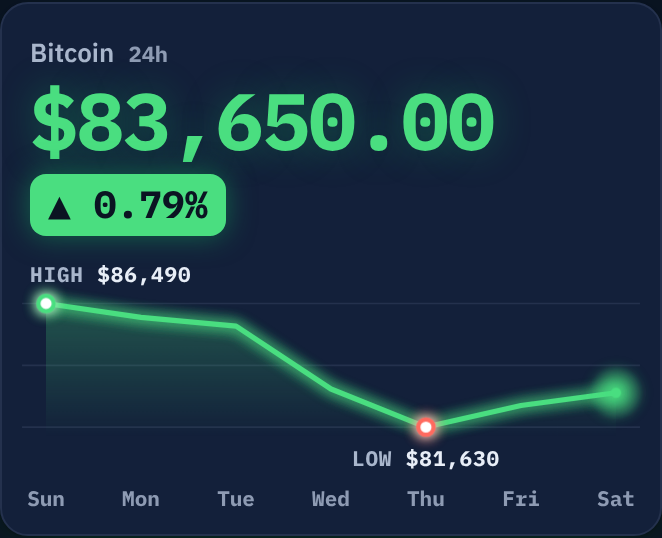
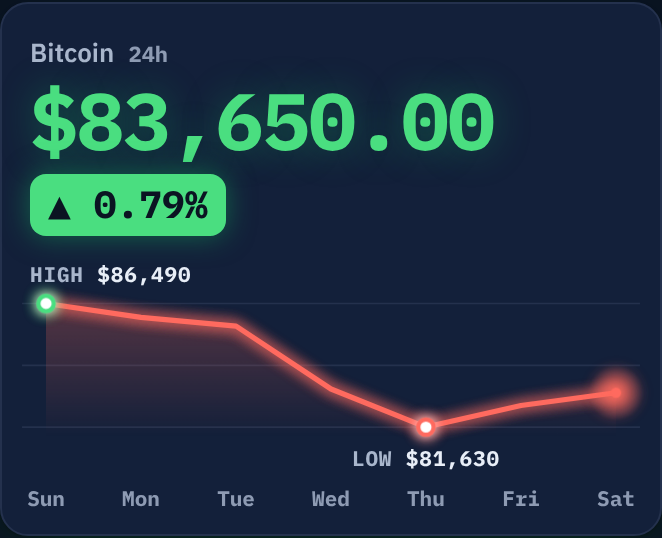
Each chart is colored by its own window (Jack, 12 October, 3:00 PM)
The Bitcoin card's week chart takes its line, fill, glow and halo from the
week (first close to last point), not the 24-hour badge; the live read no
longer recolors it. The funding line and the tile series also color by
their own window. color_truth.py now flags a chart line colored against
its own direction; color_truth_test.py's fixture has the 24-hour change up
and the week down: red before the fix, green after, red again with the
24-hour sign planted back.

The color-truth canary takes its scripts/ helpers out of sys.modules after
use, so the U-11 reads canary does not count them as build reads.

Changed region(s): [[0.0604, 0.5353, 0.9668, 0.8327]]

diff --git a/home.py b/home.py
@@ -137,9 +137,13 @@ def change_html(v, cls, attrs=""):
             f'{ARROW.get(d, "")}{" " if d else ""}{abs(v):.2f}%</span>')
 
 
-def tape_chart(week, fmt=None, direction=""):
+def tape_chart(week, fmt=None):
     """The week: line, fill, gridlines, the low and high close glowing on the line with their
-    figures, today's point on a halo, day labels under it. "" under two closes."""
+    figures, today's point on a halo, day labels under it. "" under two closes.
+
+    ITS OWN WINDOW, ITS OWN COLOR (Jack, 12 October 2026, 3:00 PM): the line, the fill, the
+    glow and the halo take the week's direction, first close to last point, never the
+    24-hour change in the badge above it. A down week draws red beside a green day."""
     import datetime as _d
     closes = (week or {}).get("closes")
     days = []
@@ -158,7 +162,7 @@ def tape_chart(week, fmt=None, direction=""):
             + f" L{pts[-1][0]},{base} Z")
     lo_i, hi_i = vals.index(min(vals)), vals.index(max(vals))
     last = len(vals) - 1
-    d = direction if direction in ("up", "down") else "flat"
+    d = "up" if vals[-1] > vals[0] else "down" if vals[-1] < vals[0] else "flat"
     top, bot = CHART_PAD_Y, CHART_H - CHART_PAD_Y
     grid = "".join(f'<line class="h-grid" x1="0" x2="{CHART_W}" y1="{y:.1f}" y2="{y:.1f}"/>'
                    for y in (top, (top + bot) / 2, bot))
@@ -227,12 +231,12 @@ def tape(snap):
                               'Bitcoin price (CoinGecko /coins/markets).</p>')
     chg = btc.get("chg_24h_pct")
     d = _dir(chg) if isinstance(chg, (int, float)) else ""
-    # COLOR TRUTH: the price, the badge, the line and the card's glow all take one sign,
-    # the 24-hour change printed in the badge beside the price.
+    # COLOR TRUTH: the price, the badge and the card's glow take one sign, the 24-hour change
+    # printed in the badge beside the price. The week's chart takes its own (tape_chart).
     chg_html = (change_html(chg, "h-badge", ' data-tape-chg="bitcoin"')
                 if isinstance(chg, (int, float)) else "")
     week = (snapshot.value(snap, "week") or {}).get("BTC") or {}
-    chart = tape_chart(week, sb._price_fmt, d)
+    chart = tape_chart(week, sb._price_fmt)
     alts = []
     for sym, name, gid in TAPE_ALTS:
         c = snapshot.coin(snap, sym)
@@ -1013,7 +1017,8 @@ HOME_JS = """<script>(function(){
     });
     if(!landed)return;
     // COLOR TRUTH: one sign per coin. The change, its arrow, its color, the price beside it,
-    // its tile and (for Bitcoin) the card and the line all take the same new 24-hour change.
+    // its tile and (for Bitcoin) the card take the new 24-hour change; the week's chart is a
+    // different window and is never recolored from it.
     function dir(c){return c>0?'up':c<0?'down':'flat';}
     function recl(el,dd){if(el)el.className=el.className.replace(/ (up|down|flat)\\b/g,'')+' '+dd;}
     document.querySelectorAll('[data-tape-chg]').forEach(function(el){
@@ -1023,11 +1028,7 @@ HOME_JS = """<script>(function(){
       el.setAttribute('aria-label',(dd==='flat'?'unchanged':dd)+' '+Math.abs(c).toFixed(2)+' percent');
       recl(el,dd);
       if(id==='bitcoin'){recl(document.querySelector('.h-px[data-tape="bitcoin"]'),dd);
-        recl(document.querySelector('[data-btc-card]'),dd);
-        document.querySelectorAll('[data-btc-card] .h-line,[data-btc-card] .h-dot-now,[data-btc-card] .h-spark').forEach(function(x){
-          x.setAttribute('class',x.getAttribute('class').replace(/ (up|down|flat)\\b/g,'')+' '+dd);});
-        var col=dd==='up'?'var(--up-line)':dd==='down'?'var(--down-line)':'var(--ink)';
-        document.querySelectorAll('[data-btc-card] stop').forEach(function(x){x.style.stopColor=col;});}
+        recl(document.querySelector('[data-btc-card]'),dd);}  // the week's chart keeps its own window's color
       else recl(document.querySelector('[data-tile="'+id+'"]'),dd);
     });
     var st=document.getElementById('tapeLive'); if(st){st.textContent='live \\u00b7 '+etClock();st.classList.add('on');}

diff --git a/scripts/color_truth.py b/scripts/color_truth.py
@@ -11,7 +11,10 @@ color_truth.py: a figure's color and arrow agree with the number printed beside 
   * a change that carries its own color (a span classed up or down) whose sign or arrow
     says the other way;
   * the home band's sentence quoting a Bitcoin day change (Program 6.2: the tape is the one
-    place it prints, so the band can never disagree with it).
+    place it prints, so the band can never disagree with it);
+  * a chart line colored one way while it runs the other over its own window (Jack, 12
+    October 2026, 3:00 PM: each chart is colored by its own window, so the week's line is
+    red on a down week even when the 24-hour badge beside it is green).
 
 `python3 scripts/color_truth_test.py` renders a fixture where the 24-hour change and the
 since-close change disagree in sign and runs this over it.
@@ -29,6 +32,9 @@ _CHG = re.compile(r'(?:(?<![\w$.])([+\-−])\s?\d[\d,]*(?:\.\d+)?\s*%'
                   r'|\b(up|down)\s+(?:by\s+)?\d[\d,]*(?:\.\d+)?\s*(?:%|percent)'
                   r'|([▲▼])\s*[+\-−]?\d[\d,]*(?:\.\d+)?\s*%)', re.I)
 _BAND = re.compile(r'<p class="h-nline">(.*?)</p>', re.S)
+# a chart line: its color class and its points, in either attribute order
+_LINE = re.compile(r'<polyline\s+(?=[^>]*\bclass="[^"]*\b(?:h-line|gl-l)\b[^"]*\b(up|down|flat)\b)'
+                   r'(?=[^>]*\bpoints="([^"]+)")[^>]*>')
 
 
 def _text(s):
@@ -67,6 +73,18 @@ def contradictions(html):
         for sign, said in _signs(_text(rest)):
             if sign != fig:
                 found.append(f"tile {name!r}: figure colored {fig} beside {said!r}")
+    # EACH CHART IS COLORED BY ITS OWN WINDOW (Jack, 12 October 2026, 3:00 PM): the line's
+    # color is its first point against its last, never a change from another window (the
+    # Bitcoin card's 24-hour badge). SVG y grows downward, so a lower last y is a rise.
+    for m in _LINE.finditer(html):
+        cls, pts = m.group(1), m.group(2).split()
+        try:
+            y0, y1 = float(pts[0].split(",")[1]), float(pts[-1].split(",")[1])
+        except (IndexError, ValueError):
+            continue
+        own = "up" if y1 < y0 else "down" if y1 > y0 else "flat"
+        if cls != own:
+            found.append(f"a chart line colored {cls} runs {own} over its own window")
     for b in _BAND.finditer(html):
         for _sign, said in _signs(_text(b.group(1))):
             found.append(f"the home band's sentence quotes a change ({said!r})")

diff --git a/site_build.py b/site_build.py
@@ -3392,7 +3392,7 @@ def cm_leverage_chart(lev, w=660, h=200):
         d = " ".join(f"{x0 + i * st:.1f},"
                      f"{y1 - (v - lo) / ((hi - lo) or 1) * (y1 - y0):.1f}"
                      for i, v in enumerate(fh))
-        _fd = "up" if fh[-1] >= 0 else "down"
+        _fd = _glow.direction(fh)      # its own window: first reading to last (Jack, 12 Oct)
         out.append(_glow.line(d, _fd))
         out.append(_glow.marks(_glow.parse(d), fh, _fd, scale=1.2))
         for v in (hi, lo):
@@ -4649,8 +4649,10 @@ def _series_svg(vals, w=300, h=64, kind=""):
         return h - 4 - ((v - lo) / span) * (h - 12)
 
     d = " ".join(f"{i*step:.1f},{_y(v):.1f}" for i, v in enumerate(pts))
-    up = (pts[-1] >= 0) if signed else (pts[-1] >= pts[0])
-    col = "var(--up-line)" if up else "var(--down-line)"
+    # each chart is colored by its own window, first reading to last (Jack, 12 October)
+    _sd = _glow.direction(pts)
+    up = _sd == "up"
+    col = {"up": "var(--up-line)", "down": "var(--down-line)"}.get(_sd, "var(--ink)")
     zero = ""
     if signed and lo < 0 < hi:
         zero = (f'<line x1="0" y1="{_y(0):.1f}" x2="{w}" y2="{_y(0):.1f}" '
@@ -4663,8 +4665,8 @@ def _series_svg(vals, w=300, h=64, kind=""):
             f'readings, low {lo:.4g}, high {hi:.4g}, latest {pts[-1]:.4g}'
             f'{", crossing zero" if zero else ""}.">'
             f'{area}{zero}'
-            f'{_glow.line(d, "up" if up else "down", width=2.5)}'
-            f'{_glow.marks(_glow.parse(d), pts, "up" if up else "down", scale=0.8)}</svg>')
+            f'{_glow.line(d, _sd, width=2.5)}'
+            f'{_glow.marks(_glow.parse(d), pts, _sd, scale=0.8)}</svg>')
 
 
 def _period_net(vals, kind):

diff --git a/scripts/color_truth_test.py b/scripts/color_truth_test.py
@@ -1,7 +1,8 @@
 #!/usr/bin/env python3
 """
 color_truth_test.py: the fixture where Bitcoin's 24-hour change and its since-close change
-disagree in sign, and so does the whole market's (Program 7 Sprint 7.1, section 4).
+disagree in sign, and so does the whole market's (Program 7 Sprint 7.1, section 4), and where
+the 24-hour change is up while the week's chart runs down (Jack, 12 October, 3:00 PM).
 
 Renders the Markets tiles (home.t_bitcoin, home.t_cap, the same functions the Board page
 calls), the home tape and the home band from a fixture snapshot, and runs
@@ -30,6 +31,11 @@ def fixture():
     snap = copy.deepcopy(snap)
     coins = snap["fields"]["coins"]["value"]
     coins["BTC"]["chg_24h_pct"] = 0.05           # green on the day
+    # and the week down: the 24-hour and 7-day signs disagree (Jack, 3:00 PM)
+    snap["fields"]["week"]["value"]["BTC"]["closes"] = {
+        "2026-10-04": 86489.73, "2026-10-05": 85945.29, "2026-10-06": 85597.01,
+        "2026-10-07": 83129.92, "2026-10-08": 81629.96, "2026-10-09": 82481.93,
+        "2026-10-10": 82978.30}
     snap["fields"]["total_cap"]["value"]["chg_24h_pct"] = -0.31   # red on the day
     deltas = {"bitcoin": {"pct": -0.67},          # but down since yesterday's close
               "market": {"pct": 0.40}}            # and the market up since it

diff --git a/verify_pipeline.py b/verify_pipeline.py
@@ -2739,10 +2739,20 @@ def _color_truth_canary(built_pages=None):
     writer refusing a line that quotes a day change; and every built page handed in.
     Breaks: home.t_bitcoin passing direction from one window and printing the other;
     narrative.edition_line keeping "Bitcoin drifted up 0.79 percent on the day"."""
+    # The checker and its fixture live in scripts/, which the build never reads. They are
+    # loaded for this check and taken out of sys.modules again, because the U-11 reads
+    # canary counts every module in sys.modules as a build read.
     import sys as _sys
-    _sys.path.insert(0, os.path.join(os.path.dirname(os.path.abspath(__file__)), "scripts"))
-    import color_truth as _ct
-    import color_truth_test as _ctt
+    _sd = os.path.join(os.path.dirname(os.path.abspath(__file__)), "scripts")
+    _sys.path.insert(0, _sd)
+    try:
+        import color_truth as _ct
+        import color_truth_test as _ctt
+    finally:
+        for _m in ("color_truth", "color_truth_test"):
+            _sys.modules.pop(_m, None)
+        if _sd in _sys.path:
+            _sys.path.remove(_sd)
     import home as _h
     import narrative as _n
     fails = []
